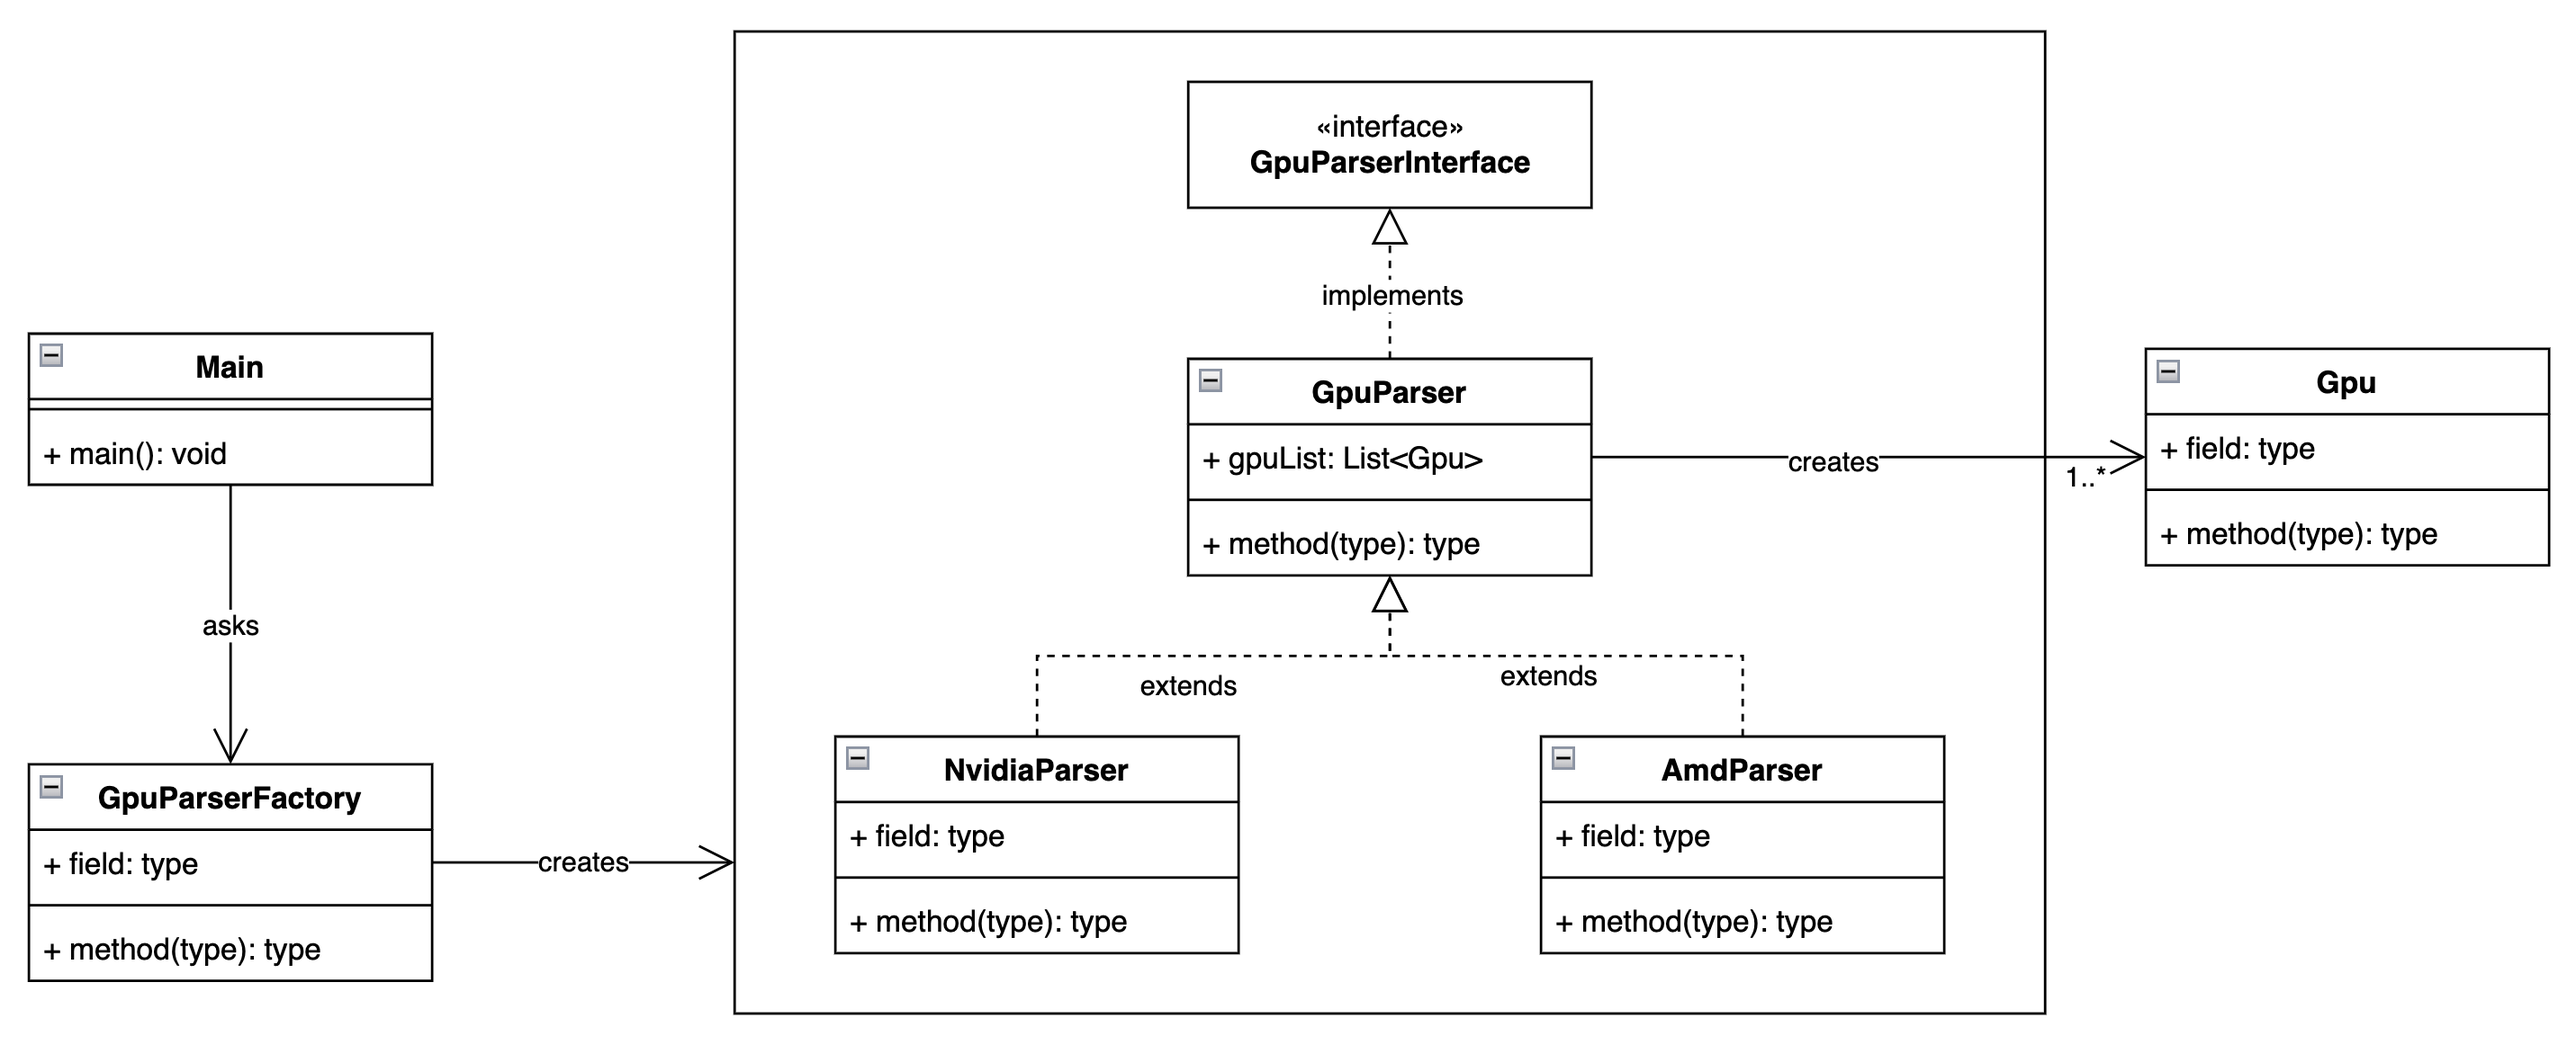
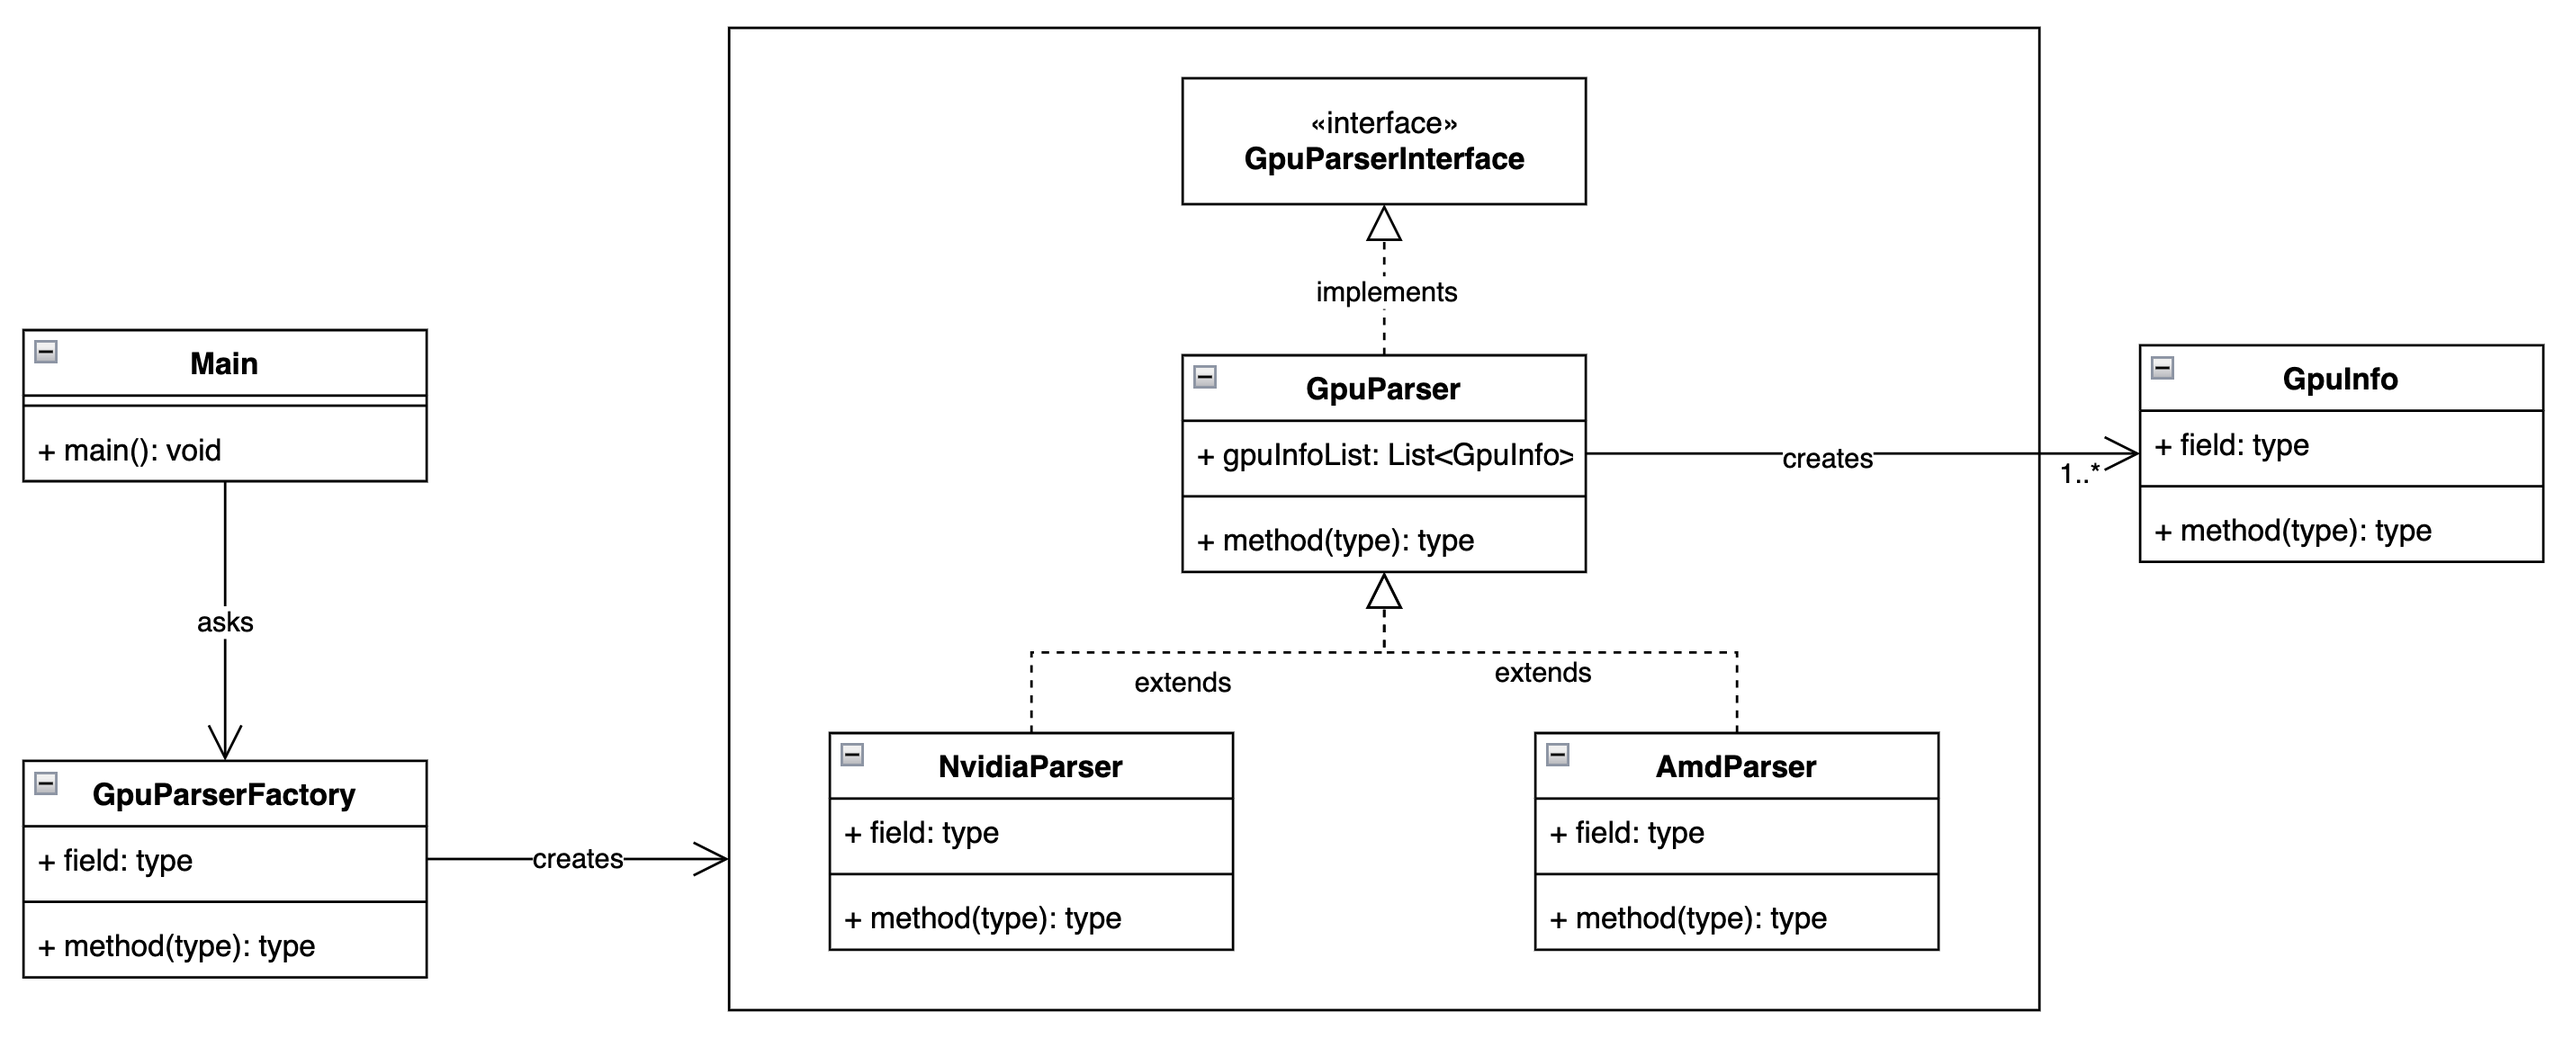
Renamed Gpu to GpuInfo

diff --git a/src/main/java/org/ow2/proactive/gpuparser/model/GpuInfo.java b/src/main/java/org/ow2/proactive/gpuparser/model/GpuInfo.java
@@ -25,5 +25,7 @@
  */
 package org.ow2.proactive.gpuparser.model;
 
-public class Gpu {
+import java.io.Serializable;
+
+public class GpuInfo implements Serializable {
 }
